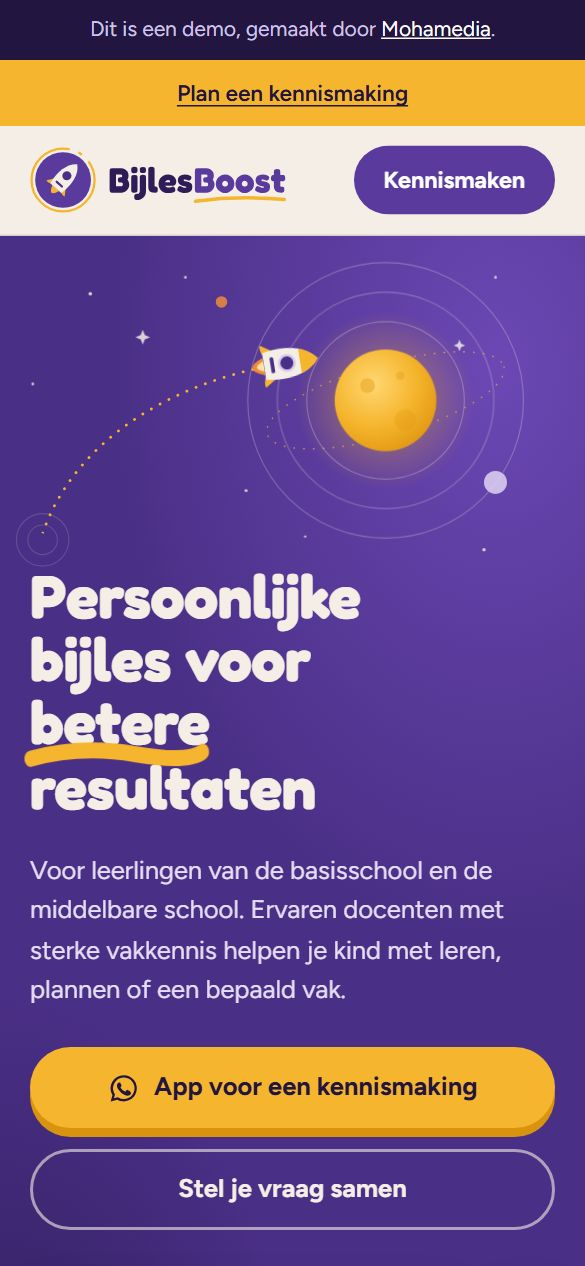
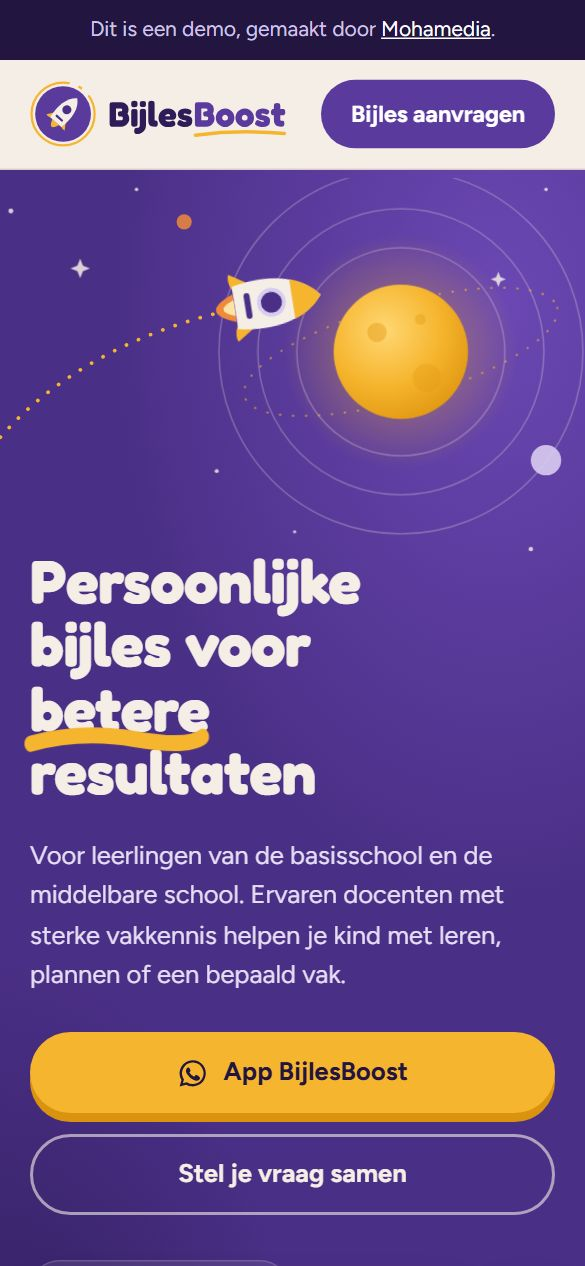
Demo bijlesboost

diff --git a/bijlesboost/index.html b/bijlesboost/index.html
@@ -19,7 +19,7 @@
 <meta name="viewport" content="width=device-width, initial-scale=1">
 <meta name="robots" content="noindex, nofollow">
 <title>BijlesBoost – persoonlijke bijles voor basisschool en middelbare school</title>
-<meta name="description" content="BijlesBoost: persoonlijke bijles voor leerlingen van de basisschool en de middelbare school. 1-op-1 of in een kleine groep, op een eigen rustige leslocatie en op flexibele tijden. Plan een kennismaking via WhatsApp.">
+<meta name="description" content="BijlesBoost: persoonlijke bijles voor leerlingen van de basisschool en de middelbare school. 1-op-1 of in een kleine groep, op een eigen rustige leslocatie en op flexibele tijden. Vraag bijles aan via WhatsApp.">
 <meta name="theme-color" content="#4A2F86">
 <link rel="icon" href="favicon.svg" type="image/svg+xml">
 <link rel="preload" href="fonts/fredoka.woff2" as="font" type="font/woff2" crossorigin>
@@ -61,7 +61,7 @@ body.pitch .demo .pitchknop{display:inline-flex;margin-left:10px;min-height:44px
 .balk a{display:inline-flex;align-items:center;gap:8px;min-height:44px;text-decoration:none}
 .balk a span{text-decoration:underline;text-underline-offset:3px}
 .balk .pre{font-style:normal}
-@media (max-width:520px){.balk .pre{display:none}}
+@media (max-width:599px){.balk{display:none}}
 
 /* kopbalk */
 .kop{background:var(--creme);position:relative;z-index:5;border-bottom:1px solid var(--creme-d)}
@@ -94,7 +94,7 @@ body.pitch .demo .pitchknop{display:inline-flex;margin-left:10px;min-height:44px
   radial-gradient(90% 70% at 0% 100%,var(--paars-dd) 0%,rgba(46,28,88,0) 60%)}
 .hero .wrap{display:grid;grid-template-columns:1fr;gap:0;padding:6px 0 44px}
 .hero .wrap>*{min-width:0}
-.scene{display:block;width:calc(100% + 40px);margin:0 -20px;height:auto;aspect-ratio:640/400}
+.scene{display:block;max-width:none;width:calc(100% + 40px);margin:0 -20px;height:auto;aspect-ratio:640/400}
 .hero h1{font-size:clamp(38px,10.4vw,76px);font-weight:700;line-height:1.04;max-width:13ch;margin-top:-6px}
 .hero h1 .ond{position:relative;white-space:nowrap;display:inline-block}
 .hero h1 .ond svg{position:absolute;left:-2%;bottom:-.2em;width:104%;height:.38em;overflow:visible}
@@ -274,9 +274,8 @@ footer .klein{font-size:13.5px;opacity:.8;margin:0}
 .pitchpaneel .sluit{float:right;min-height:44px;min-width:44px;border-radius:999px;border:1px solid var(--lijn);background:#fff;font:700 15px var(--tekst);cursor:pointer;padding:0 16px}
 .nuenstraks{display:grid;grid-template-columns:1fr 1fr;gap:12px;margin-top:18px}
 .nuenstraks figure{margin:0}
-.nuenstraks img,.nuenstraks .nu{width:100%;aspect-ratio:390/844;height:auto;border-radius:16px;border:1px solid var(--lijn);object-fit:cover;object-position:top}
-.nuenstraks .nu{background:var(--creme);display:flex;flex-direction:column;justify-content:center;align-items:center;gap:12px;padding:16px;text-align:center;font:600 17px/1.35 var(--kop);color:var(--paars-dd)}
-.nuenstraks .nu svg{width:64%;height:auto}
+.nuenstraks img{width:100%;aspect-ratio:390/844;height:auto;border-radius:16px;border:1px solid var(--lijn);object-fit:cover;object-position:top}
+.nuenstraks img.flyer{object-fit:contain;object-position:center;background:var(--creme)}
 .nuenstraks figcaption{font-size:14px;color:var(--grijs);margin-top:6px}
 .pitchpaneel ul{padding-left:20px}
 .pitchpaneel li{margin-bottom:8px}
@@ -317,6 +316,7 @@ footer .klein{font-size:13.5px;opacity:.8;margin:0}
   footer .wrap{grid-template-columns:1fr auto;align-items:end}
 }
 @media (max-width:899px){.hero .tekst{position:relative;z-index:1}}
+@media (max-width:599px){.scene{aspect-ratio:540/350}}
 @media (max-width:380px){
   .kop .logo img{height:38px}
   .badge{padding:18px 10px 16px}
@@ -331,7 +331,7 @@ footer .klein{font-size:13.5px;opacity:.8;margin:0}
 </head>
 <body>
 <div class="demo">Dit is een demo, gemaakt door <a href="https://mohamedia.nl">Mohamedia</a>. <button type="button" class="pitchknop" id="pitchOpen">Pitch openen</button></div>
-<div class="balk"><a href="#afspraak"><i class="pre">Basisschool &amp; middelbare school · </i><span>Plan een kennismaking</span></a></div>
+<div class="balk"><a href="#afspraak"><i class="pre">Basisschool &amp; middelbare school · </i><span>Vraag bijles aan</span></a></div>
 
 <header class="kop">
   <div class="wrap">
@@ -340,7 +340,7 @@ footer .klein{font-size:13.5px;opacity:.8;margin:0}
       <a href="#waarom">Waarom wij</a><a href="#aanbod">Aanbod</a><a href="#tarieven">Tarieven</a><a href="#werkwijze">Hoe werkt het</a><a href="#vragen">Vragen</a><a href="#contact">Contact</a>
     </nav>
     <div class="rechts">
-      <a class="btn paars klein" href="#afspraak">Kennismaken</a>
+      <a class="btn paars klein" href="#afspraak">Bijles aanvragen</a>
     </div>
   </div>
 </header>
@@ -390,7 +390,7 @@ footer .klein{font-size:13.5px;opacity:.8;margin:0}
       <path class="spoorpad" mask="url(#spoorMasker)" d="M52 352 C92 236 214 166 346 145"/>
       <!-- raket (getekend rond 0,0, punt omhoog) -->
       <g class="raket">
-        <g transform="scale(1.9)">
+        <g transform="scale(2.3)">
           <path class="vlam" d="M-5.6 13 Q0 33 5.6 13 Z" fill="#EE8A3A"/>
           <path class="vlam" d="M-3.2 13 Q0 25 3.2 13 Z" fill="#FCE3A6"/>
           <path d="M-6.2 2 L-13.6 13.4 Q-10.8 15 -5.8 12 Z M6.2 2 L13.6 13.4 Q10.8 15 5.8 12 Z" fill="#F6B52E"/>
@@ -405,7 +405,7 @@ footer .klein{font-size:13.5px;opacity:.8;margin:0}
       <h1>Persoonlijke bijles voor <span class="ond">betere<svg viewBox="0 0 100 10" preserveAspectRatio="none" aria-hidden="true"><path pathLength="1" d="M2 7 Q30 1 60 5 T98 4"/></svg></span> resultaten</h1>
       <p class="sub">Voor leerlingen van de basisschool en de middelbare school. Ervaren docenten met sterke vakkennis helpen je kind met leren, plannen of een bepaald vak.</p>
       <div class="cta">
-        <a class="btn geel" href="https://wa.me/31618645277?text=Hallo%20BijlesBoost%2C%20ik%20wil%20graag%20een%20kennismaking%20plannen%20voor%20mijn%20kind.%20Wanneer%20kan%20dat%3F"><svg viewBox="0 0 24 24" aria-hidden="true"><path fill="currentColor" d="M12 2a10 10 0 0 0-8.6 15.1L2 22l5-1.3A10 10 0 1 0 12 2Zm0 18.2a8.2 8.2 0 0 1-4.2-1.2l-.3-.2-3 .8.8-2.9-.2-.3A8.2 8.2 0 1 1 12 20.2Zm4.5-6.1c-.2-.1-1.5-.7-1.7-.8-.2-.1-.4-.1-.6.1l-.8 1c-.1.2-.3.2-.5.1a6.7 6.7 0 0 1-3.3-2.9c-.3-.4.2-.4.7-1.3.1-.2 0-.3 0-.4l-.8-1.8c-.2-.5-.4-.4-.6-.4h-.5a1 1 0 0 0-.7.3 3 3 0 0 0-.9 2.2 5.2 5.2 0 0 0 1.1 2.7 11.8 11.8 0 0 0 4.5 4c1.7.7 2.3.8 3.2.7.5-.1 1.5-.6 1.8-1.2.2-.6.2-1.1.1-1.2l-.4-.2Z"/></svg>App voor een kennismaking</a>
+        <a class="btn geel" href="https://wa.me/31618645277?text=Hallo%20BijlesBoost%2C%20ik%20wil%20graag%20bijles%20voor%20mijn%20kind.%20Kunnen%20we%20iets%20afspreken%3F"><svg viewBox="0 0 24 24" aria-hidden="true"><path fill="currentColor" d="M12 2a10 10 0 0 0-8.6 15.1L2 22l5-1.3A10 10 0 1 0 12 2Zm0 18.2a8.2 8.2 0 0 1-4.2-1.2l-.3-.2-3 .8.8-2.9-.2-.3A8.2 8.2 0 1 1 12 20.2Zm4.5-6.1c-.2-.1-1.5-.7-1.7-.8-.2-.1-.4-.1-.6.1l-.8 1c-.1.2-.3.2-.5.1a6.7 6.7 0 0 1-3.3-2.9c-.3-.4.2-.4.7-1.3.1-.2 0-.3 0-.4l-.8-1.8c-.2-.5-.4-.4-.6-.4h-.5a1 1 0 0 0-.7.3 3 3 0 0 0-.9 2.2 5.2 5.2 0 0 0 1.1 2.7 11.8 11.8 0 0 0 4.5 4c1.7.7 2.3.8 3.2.7.5-.1 1.5-.6 1.8-1.2.2-.6.2-1.1.1-1.2l-.4-.2Z"/></svg>App BijlesBoost</a>
         <a class="btn lijn-licht" href="#afspraak">Stel je vraag samen</a>
       </div>
       <ul class="feiten">
@@ -478,7 +478,7 @@ footer .klein{font-size:13.5px;opacity:.8;margin:0}
     <div>
       <h2>Iedere leerling is <span class="geel">welkom.</span></h2>
       <p>Of je kind nu op de basisschool zit of op de middelbare school: bij BijlesBoost is iedere leerling welkom.</p>
-      <a class="btn geel" href="#afspraak" style="margin-top:8px">Plan een kennismaking</a>
+      <a class="btn geel" href="#afspraak" style="margin-top:8px">Vraag bijles aan</a>
     </div>
     <svg class="kring" viewBox="0 0 520 400" role="img" aria-label="Illustratie: een kring van ronde figuurtjes in verschillende kleuren rond een raket">
       <g fill="none" stroke="#F5EEE6" stroke-opacity=".14" stroke-width="1.5"><circle cx="260" cy="200" r="70"/><circle cx="260" cy="200" r="120"/><circle cx="260" cy="200" r="170"/></g>
@@ -525,7 +525,7 @@ footer .klein{font-size:13.5px;opacity:.8;margin:0}
 <section class="sectie kiezer" id="afspraak">
   <div class="wrap">
     <div class="kopje">
-      <span class="label">Plan een kennismaking</span>
+      <span class="label">Bijles aanvragen</span>
       <h2>Vertel kort over je kind</h2>
       <p>Vul in wat je weet. Je bericht staat meteen klaar in WhatsApp; je hoeft alleen nog op versturen te tikken.</p>
     </div>
@@ -565,7 +565,7 @@ footer .klein{font-size:13.5px;opacity:.8;margin:0}
         <h3><img src="favicon.svg" width="34" height="34" alt="">Je bericht aan BijlesBoost</h3>
         <div class="bubbel" id="bubbel"></div>
         <div class="knoppen">
-          <a class="btn geel" id="waKnop" href="https://wa.me/31618645277?text=Hallo%20BijlesBoost%2C%20ik%20wil%20graag%20een%20kennismaking%20plannen%20voor%20mijn%20kind.%20Wanneer%20kan%20dat%3F"><svg viewBox="0 0 24 24" aria-hidden="true"><path fill="currentColor" d="M12 2a10 10 0 0 0-8.6 15.1L2 22l5-1.3A10 10 0 1 0 12 2Zm0 18.2a8.2 8.2 0 0 1-4.2-1.2l-.3-.2-3 .8.8-2.9-.2-.3A8.2 8.2 0 1 1 12 20.2Zm4.5-6.1c-.2-.1-1.5-.7-1.7-.8-.2-.1-.4-.1-.6.1l-.8 1c-.1.2-.3.2-.5.1a6.7 6.7 0 0 1-3.3-2.9c-.3-.4.2-.4.7-1.3.1-.2 0-.3 0-.4l-.8-1.8c-.2-.5-.4-.4-.6-.4h-.5a1 1 0 0 0-.7.3 3 3 0 0 0-.9 2.2 5.2 5.2 0 0 0 1.1 2.7 11.8 11.8 0 0 0 4.5 4c1.7.7 2.3.8 3.2.7.5-.1 1.5-.6 1.8-1.2.2-.6.2-1.1.1-1.2l-.4-.2Z"/></svg>Verstuur via WhatsApp</a>
+          <a class="btn geel" id="waKnop" href="https://wa.me/31618645277?text=Hallo%20BijlesBoost%2C%20ik%20wil%20graag%20bijles%20voor%20mijn%20kind.%20Kunnen%20we%20iets%20afspreken%3F"><svg viewBox="0 0 24 24" aria-hidden="true"><path fill="currentColor" d="M12 2a10 10 0 0 0-8.6 15.1L2 22l5-1.3A10 10 0 1 0 12 2Zm0 18.2a8.2 8.2 0 0 1-4.2-1.2l-.3-.2-3 .8.8-2.9-.2-.3A8.2 8.2 0 1 1 12 20.2Zm4.5-6.1c-.2-.1-1.5-.7-1.7-.8-.2-.1-.4-.1-.6.1l-.8 1c-.1.2-.3.2-.5.1a6.7 6.7 0 0 1-3.3-2.9c-.3-.4.2-.4.7-1.3.1-.2 0-.3 0-.4l-.8-1.8c-.2-.5-.4-.4-.6-.4h-.5a1 1 0 0 0-.7.3 3 3 0 0 0-.9 2.2 5.2 5.2 0 0 0 1.1 2.7 11.8 11.8 0 0 0 4.5 4c1.7.7 2.3.8 3.2.7.5-.1 1.5-.6 1.8-1.2.2-.6.2-1.1.1-1.2l-.4-.2Z"/></svg>Verstuur via WhatsApp</a>
           <a class="btn lijn-licht" id="mailKnop" href="mailto:bijlesboost@outlook.com">Liever mailen</a>
         </div>
         <p class="klein-tekst">Of bel direct: <a class="nw" href="tel:+31618645277">06 18 64 52 77</a></p>
@@ -582,7 +582,7 @@ footer .klein{font-size:13.5px;opacity:.8;margin:0}
     </div>
     <ol class="stappen">
       <li><div class="planeetje">1</div><div><h3>Contact</h3><p>Stuur een appje, bel of mail. Vertel kort op welke school je kind zit en waar het hulp bij zoekt.</p></div></li>
-      <li><div class="planeetje">2</div><div><h3>Kennismaking</h3><p>Jullie maken kennis met BijlesBoost. Je vertelt waar je kind tegenaan loopt en je kunt al je vragen stellen.</p></div></li>
+      <li><div class="planeetje">2</div><div><h3>Afstemmen</h3><p>Jullie spreken samen de vorm (1-op-1 of kleine groep) en de tijden af.</p></div></li>
       <li><div class="planeetje">3</div><div><h3>Aan de slag</h3><p>Je kind krijgt persoonlijke begeleiding, 1-op-1 of in een kleine groep, op de eigen rustige leslocatie.</p></div></li>
     </ol>
   </div>
@@ -612,7 +612,7 @@ footer .klein{font-size:13.5px;opacity:.8;margin:0}
       <h2>Bereik ons zoals jij wilt</h2>
     </div>
     <div class="kanalen">
-      <a class="kanaal k-wa" href="https://wa.me/31618645277?text=Hallo%20BijlesBoost%2C%20ik%20wil%20graag%20een%20kennismaking%20plannen%20voor%20mijn%20kind.%20Wanneer%20kan%20dat%3F"><span class="rond"><svg viewBox="0 0 24 24" aria-hidden="true"><path fill="currentColor" d="M12 2a10 10 0 0 0-8.6 15.1L2 22l5-1.3A10 10 0 1 0 12 2Zm0 18.2a8.2 8.2 0 0 1-4.2-1.2l-.3-.2-3 .8.8-2.9-.2-.3A8.2 8.2 0 1 1 12 20.2Zm4.5-6.1c-.2-.1-1.5-.7-1.7-.8-.2-.1-.4-.1-.6.1l-.8 1c-.1.2-.3.2-.5.1a6.7 6.7 0 0 1-3.3-2.9c-.3-.4.2-.4.7-1.3.1-.2 0-.3 0-.4l-.8-1.8c-.2-.5-.4-.4-.6-.4h-.5a1 1 0 0 0-.7.3 3 3 0 0 0-.9 2.2 5.2 5.2 0 0 0 1.1 2.7 11.8 11.8 0 0 0 4.5 4c1.7.7 2.3.8 3.2.7.5-.1 1.5-.6 1.8-1.2.2-.6.2-1.1.1-1.2l-.4-.2Z"/></svg></span><span><b>WhatsApp</b><span>06 18 64 52 77</span></span><svg class="pijl" viewBox="0 0 24 24" aria-hidden="true"><path d="M5 12h14m-6-6 6 6-6 6" fill="none" stroke="currentColor" stroke-width="2.4" stroke-linecap="round" stroke-linejoin="round"/></svg></a>
+      <a class="kanaal k-wa" href="https://wa.me/31618645277?text=Hallo%20BijlesBoost%2C%20ik%20wil%20graag%20bijles%20voor%20mijn%20kind.%20Kunnen%20we%20iets%20afspreken%3F"><span class="rond"><svg viewBox="0 0 24 24" aria-hidden="true"><path fill="currentColor" d="M12 2a10 10 0 0 0-8.6 15.1L2 22l5-1.3A10 10 0 1 0 12 2Zm0 18.2a8.2 8.2 0 0 1-4.2-1.2l-.3-.2-3 .8.8-2.9-.2-.3A8.2 8.2 0 1 1 12 20.2Zm4.5-6.1c-.2-.1-1.5-.7-1.7-.8-.2-.1-.4-.1-.6.1l-.8 1c-.1.2-.3.2-.5.1a6.7 6.7 0 0 1-3.3-2.9c-.3-.4.2-.4.7-1.3.1-.2 0-.3 0-.4l-.8-1.8c-.2-.5-.4-.4-.6-.4h-.5a1 1 0 0 0-.7.3 3 3 0 0 0-.9 2.2 5.2 5.2 0 0 0 1.1 2.7 11.8 11.8 0 0 0 4.5 4c1.7.7 2.3.8 3.2.7.5-.1 1.5-.6 1.8-1.2.2-.6.2-1.1.1-1.2l-.4-.2Z"/></svg></span><span><b>WhatsApp</b><span>06 18 64 52 77</span></span><svg class="pijl" viewBox="0 0 24 24" aria-hidden="true"><path d="M5 12h14m-6-6 6 6-6 6" fill="none" stroke="currentColor" stroke-width="2.4" stroke-linecap="round" stroke-linejoin="round"/></svg></a>
       <a class="kanaal k-bel" href="tel:+31618645277"><span class="rond"><svg viewBox="0 0 24 24" aria-hidden="true"><path fill="currentColor" d="M6.6 10.8a15.2 15.2 0 0 0 6.6 6.6l2.2-2.2a1 1 0 0 1 1-.25 11.4 11.4 0 0 0 3.6.57 1 1 0 0 1 1 1V20a1 1 0 0 1-1 1A17 17 0 0 1 3 4a1 1 0 0 1 1-1h3.5a1 1 0 0 1 1 1c0 1.25.2 2.45.57 3.57a1 1 0 0 1-.25 1Z"/></svg></span><span><b>Bellen</b><span class="nw">06 18 64 52 77</span></span><svg class="pijl" viewBox="0 0 24 24" aria-hidden="true"><path d="M5 12h14m-6-6 6 6-6 6" fill="none" stroke="currentColor" stroke-width="2.4" stroke-linecap="round" stroke-linejoin="round"/></svg></a>
       <a class="kanaal k-mail" href="mailto:bijlesboost@outlook.com?subject=Vraag%20over%20bijles"><span class="rond"><svg viewBox="0 0 24 24" aria-hidden="true"><path d="M3 6h18v12H3z" fill="none" stroke="currentColor" stroke-width="2"/><path d="m3.5 6.5 8.5 7 8.5-7" fill="none" stroke="currentColor" stroke-width="2" stroke-linejoin="round"/></svg></span><span><b>Mailen</b><span>bijlesboost@outlook.com</span></span><svg class="pijl" viewBox="0 0 24 24" aria-hidden="true"><path d="M5 12h14m-6-6 6 6-6 6" fill="none" stroke="currentColor" stroke-width="2.4" stroke-linecap="round" stroke-linejoin="round"/></svg></a>
     </div>
@@ -627,9 +627,9 @@ footer .klein{font-size:13.5px;opacity:.8;margin:0}
   <div class="wrap">
     <img class="mini" src="favicon.svg" width="92" height="92" alt="">
     <h2>Klaar voor de start?</h2>
-    <p>Plan een kennismaking en vertel waar je kind hulp bij zoekt. Iedere leerling is welkom.</p>
+    <p>Vraag bijles aan en vertel waar je kind hulp bij zoekt. Iedere leerling is welkom.</p>
     <div class="cta">
-      <a class="btn geel" href="#afspraak">Plan een kennismaking</a>
+      <a class="btn geel" href="#afspraak">Vraag bijles aan</a>
       <a class="btn lijn-licht" href="tel:+31618645277">Bel <span class="nw">06 18 64 52 77</span></a>
     </div>
   </div>
@@ -644,50 +644,53 @@ footer .klein{font-size:13.5px;opacity:.8;margin:0}
         <a href="tel:+31618645277" class="nw">06 18 64 52 77</a>
         <a href="mailto:bijlesboost@outlook.com">bijlesboost@outlook.com</a>
       </div>
-      <p class="klein">Persoonlijke bijles voor basisschool en middelbare school. Illustraties: eigen tekeningen, geen foto's.</p>
+      <p class="klein">Persoonlijke bijles voor basisschool en middelbare school.</p>
     </div>
     <p class="klein">Website door <a href="https://mohamedia.nl">Mohamedia</a></p>
   </div>
 </footer>
 
 <div class="zweef" id="zweef" aria-hidden="true">
-  <a class="btn geel" href="#afspraak" tabindex="-1">Plan een kennismaking</a>
-  <a class="btn rond" href="https://wa.me/31618645277?text=Hallo%20BijlesBoost%2C%20ik%20wil%20graag%20een%20kennismaking%20plannen%20voor%20mijn%20kind.%20Wanneer%20kan%20dat%3F" tabindex="-1" aria-label="WhatsApp BijlesBoost"><svg viewBox="0 0 24 24" aria-hidden="true"><path fill="currentColor" d="M12 2a10 10 0 0 0-8.6 15.1L2 22l5-1.3A10 10 0 1 0 12 2Zm0 18.2a8.2 8.2 0 0 1-4.2-1.2l-.3-.2-3 .8.8-2.9-.2-.3A8.2 8.2 0 1 1 12 20.2Zm4.5-6.1c-.2-.1-1.5-.7-1.7-.8-.2-.1-.4-.1-.6.1l-.8 1c-.1.2-.3.2-.5.1a6.7 6.7 0 0 1-3.3-2.9c-.3-.4.2-.4.7-1.3.1-.2 0-.3 0-.4l-.8-1.8c-.2-.5-.4-.4-.6-.4h-.5a1 1 0 0 0-.7.3 3 3 0 0 0-.9 2.2 5.2 5.2 0 0 0 1.1 2.7 11.8 11.8 0 0 0 4.5 4c1.7.7 2.3.8 3.2.7.5-.1 1.5-.6 1.8-1.2.2-.6.2-1.1.1-1.2l-.4-.2Z"/></svg></a>
+  <a class="btn geel" href="#afspraak" tabindex="-1">Vraag bijles aan</a>
+  <a class="btn rond" href="https://wa.me/31618645277?text=Hallo%20BijlesBoost%2C%20ik%20wil%20graag%20bijles%20voor%20mijn%20kind.%20Kunnen%20we%20iets%20afspreken%3F" tabindex="-1" aria-label="WhatsApp BijlesBoost"><svg viewBox="0 0 24 24" aria-hidden="true"><path fill="currentColor" d="M12 2a10 10 0 0 0-8.6 15.1L2 22l5-1.3A10 10 0 1 0 12 2Zm0 18.2a8.2 8.2 0 0 1-4.2-1.2l-.3-.2-3 .8.8-2.9-.2-.3A8.2 8.2 0 1 1 12 20.2Zm4.5-6.1c-.2-.1-1.5-.7-1.7-.8-.2-.1-.4-.1-.6.1l-.8 1c-.1.2-.3.2-.5.1a6.7 6.7 0 0 1-3.3-2.9c-.3-.4.2-.4.7-1.3.1-.2 0-.3 0-.4l-.8-1.8c-.2-.5-.4-.4-.6-.4h-.5a1 1 0 0 0-.7.3 3 3 0 0 0-.9 2.2 5.2 5.2 0 0 0 1.1 2.7 11.8 11.8 0 0 0 4.5 4c1.7.7 2.3.8 3.2.7.5-.1 1.5-.6 1.8-1.2.2-.6.2-1.1.1-1.2l-.4-.2Z"/></svg></a>
 </div>
 
 <div class="pitchpaneel" id="pitch" hidden>
   <div class="in" role="dialog" aria-modal="true" aria-labelledby="pitchKop">
     <button type="button" class="sluit" id="pitchDicht">Sluiten</button>
-    <h2 id="pitchKop">Van flyer naar je eigen site</h2>
+    <h2 id="pitchKop">Je raket, nu online</h2>
     <div class="nuenstraks">
-      <figure><div class="nu"><svg viewBox="0 0 100 130" aria-hidden="true"><rect x="4" y="4" width="92" height="122" rx="8" fill="#fff" stroke="#D8CCF0" stroke-width="2"/><rect x="14" y="14" width="72" height="10" rx="5" fill="#5B3A9E"/><rect x="14" y="30" width="50" height="6" rx="3" fill="#F6B52E"/><rect x="14" y="44" width="72" height="34" rx="6" fill="#EEE7F8"/><rect x="14" y="86" width="60" height="5" rx="2.5" fill="#D8CCF0"/><rect x="14" y="96" width="66" height="5" rx="2.5" fill="#D8CCF0"/><rect x="14" y="106" width="40" height="5" rx="2.5" fill="#D8CCF0"/></svg>Je flyer</div><figcaption>Nu: de flyer, met stockfoto's.</figcaption></figure>
+      <figure><img class="flyer" src="img/voor-flyer.jpg" width="1131" height="1600" loading="lazy" decoding="async" alt="Nu: de flyer van BijlesBoost"><figcaption>Nu: je flyer.</figcaption></figure>
       <figure><img src="img/na-mobiel.jpg" width="390" height="844" loading="lazy" decoding="async" alt="Straks: deze site op een telefoon"><figcaption>Straks: je eigen site op elke telefoon.</figcaption></figure>
     </div>
     <h3>Wat er beter wordt</h3>
     <ul>
-      <li>Een ouder plant een kennismaking in één tik: school, vorm en vraag staan al in het WhatsApp-bericht.</li>
+      <li>Een ouder vraagt bijles aan in één tik: school, vorm en hulpvraag staan al in het WhatsApp-bericht.</li>
       <li>De tarieven staan op één plek: 1-op-1 € 25, kleine groep € 20.</li>
       <li>Geen stockfoto's meer: eigen tekeningen in de kleuren van je flyer, met je raket als merkteken.</li>
       <li>Tip: zet straks de link of een QR-code op je flyer, dan komt iedereen die hem krijgt meteen hier.</li>
     </ul>
     <h3>Rekenvoorbeeld om samen in te vullen (geen belofte)</h3>
     <div class="reken">
-      <label for="rk">Extra lessen per week: <span id="rkU">2</span></label>
+      <label for="rk">Extra keer per week het tarief: <span id="rkU">2</span></label>
       <input type="range" id="rk" min="1" max="20" value="2">
       <label>Tarief</label>
       <div class="chips" id="rt">
         <button type="button" class="chip" data-w="25" aria-pressed="true">1-op-1 € 25</button>
         <button type="button" class="chip" data-w="20" aria-pressed="false">Kleine groep € 20</button>
       </div>
-      <label for="rw">Weken per jaar met les: <span id="rwU">40</span></label>
+      <label for="rw">Weken per jaar: <span id="rwU">40</span></label>
       <input type="range" id="rw" min="10" max="52" value="40">
-      <div class="uit"><p style="margin:0">Per jaar: <b id="rjU">€ 2.000</b> extra omzet (voorbeeld)</p></div>
+      <div class="uit"><p style="margin:0">Per jaar: <b id="rjU">€ 2.000</b> extra omzet</p><p style="margin:6px 0 0;font-size:14px;color:var(--grijs)">Voorbeeld: aantal keer × het tarief × weken, geen belofte.</p></div>
     </div>
   </div>
 </div>
 
 <script>
 (function(){
+  var sc=document.querySelector('.scene');
+  function vb(){sc.setAttribute('viewBox',matchMedia('(max-width:599px)').matches?'100 30 540 350':'0 0 640 400');}
+  vb();addEventListener('resize',vb);
   var NR='31618645277';
   function wa(t){return 'https://wa.me/'+NR+'?text='+encodeURIComponent(t);}
   var bubbel=document.getElementById('bubbel'),waK=document.getElementById('waKnop'),mailK=document.getElementById('mailKnop');
@@ -699,14 +702,14 @@ footer .klein{font-size:13.5px;opacity:.8;margin:0}
     var n=naam.value.trim(),s=keuze('school'),v=keuze('vorm'),q=vraag.value.trim(),sn=snel();
     var t='Hallo BijlesBoost,\n\n';
     t+=n?'Ik ben '+n+'. ':'';
-    t+='Ik wil graag een kennismaking plannen voor mijn kind. Mijn kind zit op '+s+'.';
+    t+='Ik wil graag bijles voor mijn kind. Mijn kind zit op '+s+'.';
     t+=v?' We denken aan '+v+'.':' We weten nog niet of 1-op-1 of een kleine groep het beste past.';
     if(sn.length)t+='\nMijn kind zoekt hulp bij '+lijst(sn)+'.';
     if(q)t+='\n'+q;
-    t+='\n\nWanneer kunnen we kennismaken?';
+    t+='\n\nKunnen we iets afspreken?';
     bubbel.textContent=t;
     waK.href=wa(t);
-    mailK.href='mailto:bijlesboost@outlook.com?subject='+encodeURIComponent('Kennismaking BijlesBoost')+'&body='+encodeURIComponent(t);
+    mailK.href='mailto:bijlesboost@outlook.com?subject='+encodeURIComponent('Bijles aanvragen bij BijlesBoost')+'&body='+encodeURIComponent(t);
   }
   document.querySelectorAll('.kaartje .chips').forEach(function(g){
     g.addEventListener('click',function(e){
